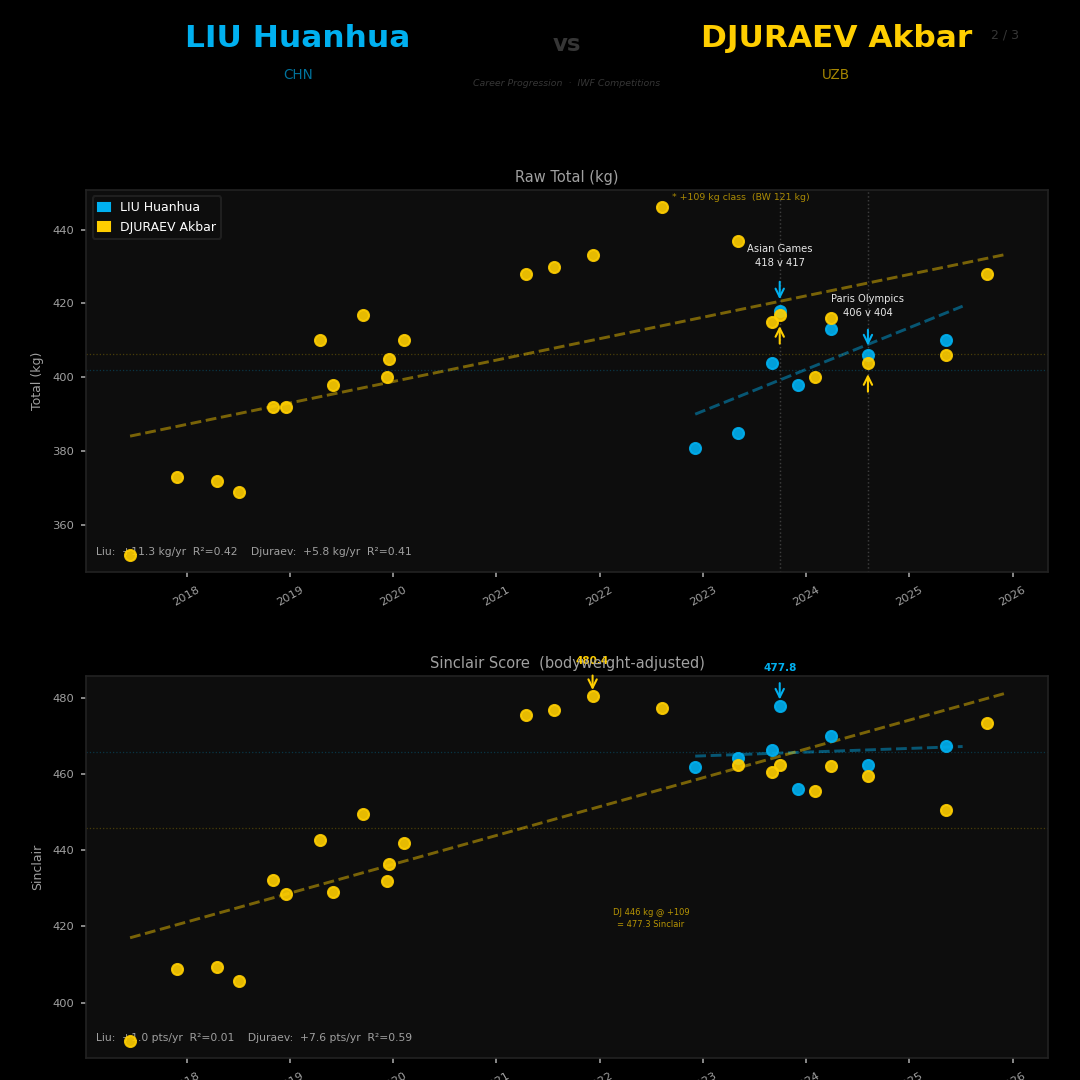
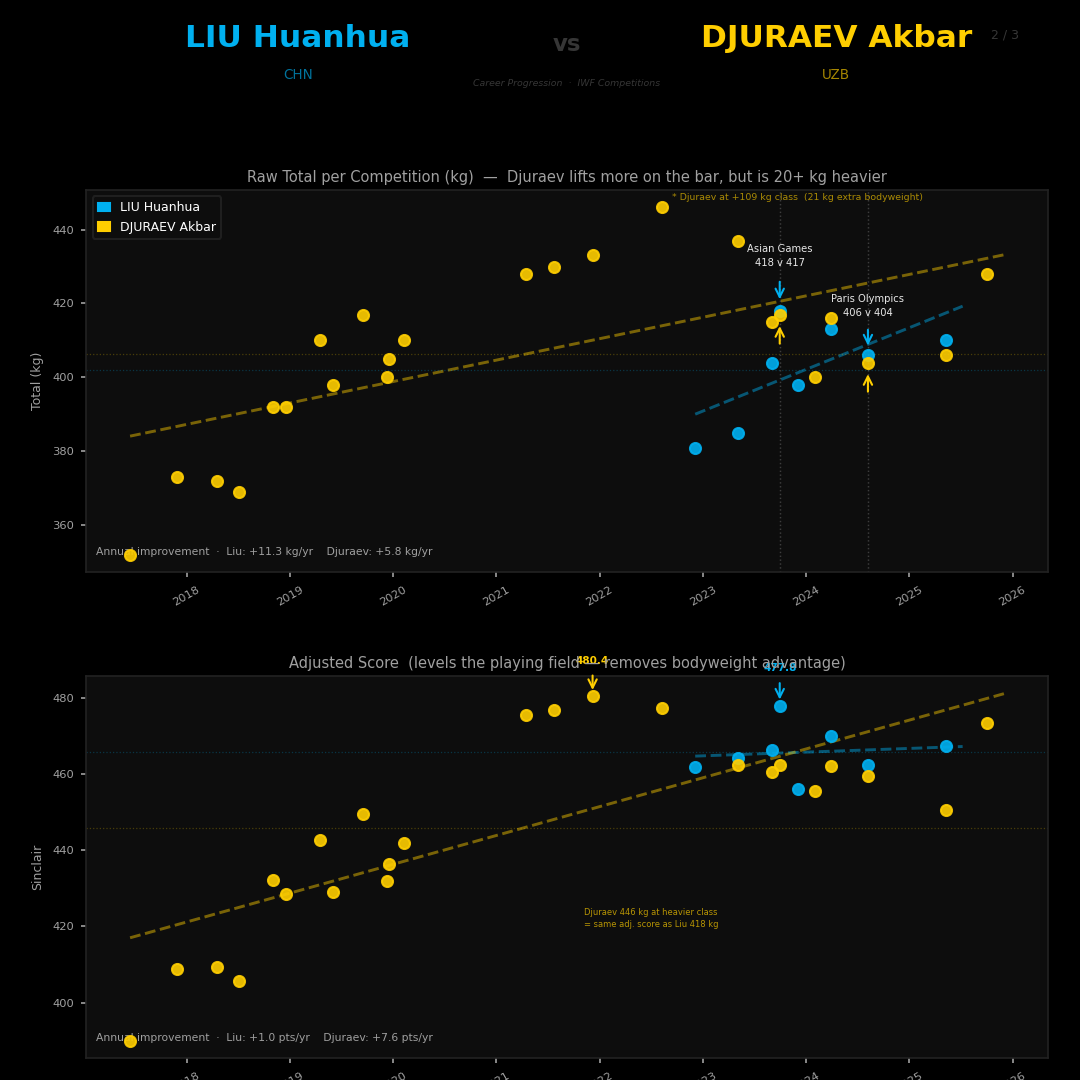
Clean up all 6 images for general-audience readability
- Remove all R² values from chart annotations (jargon)
- Replace 'Sinclair' with plain-English equivalents throughout:
  'adj. score', 'pound-for-pound', 'adjusted for bodyweight'
- Remove Cohen's d from public-facing text; replace with plain verdict
- Scorecard: 'Consistency (CV%)' → 'Consistency', 'Trajectory (pts/yr)' → 'Improvement rate'
- Image 6: replace star markers with clean diamonds, remove overlapping
  projected-value text labels (legend carries those values instead)
- Chart titles now describe what the data means, not just what it is
- All 6 images regenerated at 1080×1080px

https://claude.ai/code/session_01SfcGjgDhcGC31Kzw2TLvE9

diff --git a/scripts/compare_liu_akbar.py b/scripts/compare_liu_akbar.py
@@ -275,7 +275,7 @@ gs1  = GridSpec(4, 2, figure=fig1,
                 height_ratios=[0.09, 0.29, 0.33, 0.29])
 
 ax1h = fig1.add_subplot(gs1[0, :])
-header(ax1h, subtitle='IWF Career Statistical Analysis  ·  OpenWeightlifting')
+header(ax1h, subtitle='Career Head-to-Head Analysis  ·  IWF Competitions')
 nameplate(ax1h, 1)
 
 # ── H2H record ──
@@ -306,7 +306,7 @@ for ax, ev, cat, dt_str, lt, dt_, ls, ds, lbw, dbw in [
     # LIU column
     ax.text(0.15, 0.60, str(lt), ha='center', va='center', color=LIU_C,
             fontsize=20, fontweight='black', transform=ax.transAxes)
-    ax.text(0.15, 0.40, f'Sinclair\n{ls:.1f}', ha='center', va='center',
+    ax.text(0.15, 0.40, f'Adj. score\n{ls:.1f}', ha='center', va='center',
             color=LIU_C, fontsize=6, alpha=0.8, linespacing=1.5,
             transform=ax.transAxes)
     ax.text(0.15, 0.22, f'BW {lbw} kg', ha='center', va='center',
@@ -323,7 +323,7 @@ for ax, ev, cat, dt_str, lt, dt_, ls, ds, lbw, dbw in [
     # DJ column
     ax.text(0.85, 0.60, str(dt_), ha='center', va='center', color=LGRAY,
             fontsize=20, fontweight='black', transform=ax.transAxes)
-    ax.text(0.85, 0.40, f'Sinclair\n{ds:.1f}', ha='center', va='center',
+    ax.text(0.85, 0.40, f'Adj. score\n{ds:.1f}', ha='center', va='center',
             color=LGRAY, fontsize=6, alpha=0.8, linespacing=1.5,
             transform=ax.transAxes)
     ax.text(0.85, 0.22, f'BW {dbw} kg', ha='center', va='center',
@@ -337,7 +337,7 @@ ax1e = fig1.add_subplot(gs1[3, :])
 card_bg(ax1e)
 
 # big "="
-ax1e.text(0.50, 0.72, 'THE SINCLAIR EQUALISER', ha='center', va='center',
+ax1e.text(0.50, 0.72, 'THE POUND-FOR-POUND EQUALISER', ha='center', va='center',
           color=LGRAY, fontsize=7, fontweight='bold',
           transform=ax1e.transAxes)
 
@@ -345,19 +345,19 @@ ax1e.text(0.18, 0.42, '477.8', ha='center', va='center', color=LIU_C,
           fontsize=22, fontweight='black', transform=ax1e.transAxes)
 ax1e.text(0.18, 0.22, '418 kg total', ha='center', va='center',
           color=LIU_C, fontsize=6, alpha=0.75, transform=ax1e.transAxes)
-ax1e.text(0.18, 0.10, '@ 100.8 kg BW', ha='center', va='center',
+ax1e.text(0.18, 0.10, '@ 100.8 kg bodyweight', ha='center', va='center',
           color=LIU_C, fontsize=5, alpha=0.55, transform=ax1e.transAxes)
 
 ax1e.text(0.50, 0.38, '=', ha='center', va='center', color=WHITE,
           fontsize=24, fontweight='black', transform=ax1e.transAxes)
-ax1e.text(0.50, 0.10, 'Sinclair score', ha='center', va='center',
+ax1e.text(0.50, 0.10, 'same pound-for-pound score', ha='center', va='center',
           color=LGRAY, fontsize=5, transform=ax1e.transAxes)
 
 ax1e.text(0.82, 0.42, '477.3', ha='center', va='center', color=DJ_C,
           fontsize=22, fontweight='black', transform=ax1e.transAxes)
 ax1e.text(0.82, 0.22, '446 kg total', ha='center', va='center',
           color=DJ_C, fontsize=6, alpha=0.75, transform=ax1e.transAxes)
-ax1e.text(0.82, 0.10, '@ 121.6 kg BW  (+109 kg)', ha='center', va='center',
+ax1e.text(0.82, 0.10, '@ 121.6 kg bodyweight  (21 kg heavier)', ha='center', va='center',
           color=DJ_C, fontsize=5, alpha=0.55, transform=ax1e.transAxes)
 
 save(fig1, '/home/user/OpenWeightlifting/liu_akbar_1_hook.png')
@@ -396,12 +396,11 @@ def annot_total(ax):
             ha='center', va='bottom', color=WHITE, fontsize=4.8, alpha=0.9,
             linespacing=1.5)
     ax.text(datetime(2022,8,11)+timedelta(days=35), 448,
-            '* +109 kg class  (BW 121 kg)', color=DJ_C, fontsize=4.5, alpha=0.65)
+            '* Djuraev at +109 kg class  (21 kg extra bodyweight)', color=DJ_C, fontsize=4.5, alpha=0.65)
     ax.text(0.01, 0.04,
-            f'Liu:  {liu_ts*365:+.1f} kg/yr  R²={liu_tr2:.2f}    '
-            f'Djuraev:  {dj_ts*365:+.1f} kg/yr  R²={dj_tr2:.2f}',
+            f'Annual improvement  ·  Liu: {liu_ts*365:+.1f} kg/yr    Djuraev: {dj_ts*365:+.1f} kg/yr',
             transform=ax.transAxes, color=LGRAY, fontsize=5.2, va='bottom')
-    ax.set_title('Raw Total (kg)', color=LGRAY, fontsize=7, pad=4)
+    ax.set_title('Raw Total per Competition (kg)  —  Djuraev lifts more on the bar, but is 20+ kg heavier', color=LGRAY, fontsize=7, pad=4)
     p1 = mpatches.Patch(color=LIU_C, label='LIU Huanhua')
     p2 = mpatches.Patch(color=DJ_C,  label='DJURAEV Akbar')
     ax.legend(handles=[p1, p2], loc='upper left', facecolor=CARD,
@@ -424,14 +423,13 @@ def annot_sinc(ax):
     ax.text(datetime(2021,12,7), 488.5, '480.4',
             ha='center', va='bottom', color=DJ_C, fontsize=5, fontweight='bold')
     ax.text(datetime(2022,7,1), 422,
-            'DJ 446 kg @ +109\n= 477.3 Sinclair',
+            'Djuraev 446 kg at heavier class\n= same adj. score as Liu 418 kg',
             ha='center', va='center', color=DJ_C, fontsize=4, alpha=0.70,
             linespacing=1.4)
     ax.text(0.01, 0.04,
-            f'Liu:  {liu_ss*365:+.1f} pts/yr  R²={liu_sr2:.2f}    '
-            f'Djuraev:  {dj_ss*365:+.1f} pts/yr  R²={dj_sr2:.2f}',
+            f'Annual improvement  ·  Liu: {liu_ss*365:+.1f} pts/yr    Djuraev: {dj_ss*365:+.1f} pts/yr',
             transform=ax.transAxes, color=LGRAY, fontsize=5.2, va='bottom')
-    ax.set_title('Sinclair Score  (bodyweight-adjusted)', color=LGRAY, fontsize=7, pad=4)
+    ax.set_title('Adjusted Score  (levels the playing field — removes bodyweight advantage)', color=LGRAY, fontsize=7, pad=4)
 
 scatter_ax(ax2s, liu_dates, liu_sin, dj_dates, dj_sin, 'Sinclair',
            liu_ss, liu_sb, liu_sx, dj_ss, dj_sb, dj_sx, annot_sinc)
@@ -453,28 +451,28 @@ nameplate(ax3h, 3)
 
 # ── Sinclair stats card ──
 a = fig3.add_subplot(gs3[1, 0])
-card_bg(a); card_title(a, 'SINCLAIR  (bodyweight-adjusted)')
-row3(a, 0.79, f'{max(liu_sin):.1f}', 'Career Best Sinclair', f'{max(dj_sin):.1f}',
+card_bg(a); card_title(a, 'STRENGTH SCORE  (adjusted for bodyweight)')
+row3(a, 0.79, f'{max(liu_sin):.1f}', 'Best adj. score', f'{max(dj_sin):.1f}',
      lc=LGRAY, rc=DJ_C, rb=True)
-row3(a, 0.63, f'{np.mean(liu_sin):.1f}', 'Career Mean', f'{np.mean(dj_sin):.1f}',
+row3(a, 0.63, f'{np.mean(liu_sin):.1f}', 'Career avg score', f'{np.mean(dj_sin):.1f}',
      lc=LIU_C, rc=LGRAY, lb=True)
 row3(a, 0.47,
-     f'{np.mean(liu_102_sin):.1f}', '102 kg Mean', f'{np.mean(dj_102_sin):.1f}',
+     f'{np.mean(liu_102_sin):.1f}', '102 kg class avg', f'{np.mean(dj_102_sin):.1f}',
      lc=LIU_C, rc=LGRAY, lb=True)
 row3(a, 0.32,
-     f'+/-{np.std(liu_102_sin,ddof=1):.1f}', '102 kg Std Dev', f'+/-{np.std(dj_102_sin,ddof=1):.1f}',
+     f'+/-{np.std(liu_102_sin,ddof=1):.1f}', '102 kg variation', f'+/-{np.std(dj_102_sin,ddof=1):.1f}',
      lc=LIU_C, rc=LGRAY, lb=True)
 row3(a, 0.17,
-     f'{np.std(liu_102_sin,ddof=1)/np.mean(liu_102_sin)*100:.1f}%', '102 kg  CV%',
+     f'{np.std(liu_102_sin,ddof=1)/np.mean(liu_102_sin)*100:.1f}%', '102 kg consistency',
      f'{np.std(dj_102_sin,ddof=1)/np.mean(dj_102_sin)*100:.1f}%',
      lc=LIU_C, rc=LGRAY, lb=True)
 a.text(0.5, 0.03,
-       f"Cohen's d = {d_102s:.2f}  |  p = {p_102s:.2f}  (n=5 vs n=3)",
+       f"Liu's edge at 102 kg is statistically significant  (p={p_102s:.2f})",
        ha='center', va='bottom', color=DGRAY, fontsize=4.5, transform=a.transAxes)
 
 # ── Career bests (total vs Sinclair) ──
 b = fig3.add_subplot(gs3[1, 1])
-card_bg(b); card_title(b, 'CAREER BESTS  (Total vs Sinclair)')
+card_bg(b); card_title(b, 'CAREER BESTS  (Raw vs Bodyweight-Adjusted)')
 
 headers = ['', 'Total (kg)', 'Sinclair']
 col_x   = [0.08, 0.45, 0.82]
@@ -505,7 +503,7 @@ for (lbl, tv, sv), ry in zip(rows, row_ys):
            fontsize=5.2, transform=b.transAxes)
 
 b.text(0.5, 0.03,
-       'Sinclair neutralises the 28 kg bodyweight advantage',
+       "Adjusted scores cancel out Djuraev's 28 kg weight advantage",
        ha='center', va='bottom', color=LIU_C, fontsize=4.5,
        fontweight='bold', transform=b.transAxes)
 
@@ -525,11 +523,11 @@ dj_overall_rate  = np.mean(dj_rates)  * 100
 scorecard = [
     ('Head-to-Head',          '2 – 0',                       '0 – 2',                       'liu'),
     ('Career Best Total',     f'{max(liu_tot):.0f} kg',      f'{max(dj_tot):.0f} kg',        'dj'),
-    ('Career Best Sinclair',  f'{max(liu_sin):.1f}',         f'{max(dj_sin):.1f}',           'dj'),
-    ('Career Mean Sinclair',  f'{np.mean(liu_sin):.1f}',     f'{np.mean(dj_sin):.1f}',       'liu'),
-    ('102 kg Sinclair',       f'{np.mean(liu_102_sin):.1f}', f'{np.mean(dj_102_sin):.1f}',   'liu'),
-    ('Consistency  (CV %)',   f'{liu_cv102:.1f}%',           f'{dj_cv102:.1f}%',             'liu'),
-    ('Trajectory  (pts/yr)',  f'{liu_ss*365:+.1f}',          f'{dj_ss*365:+.1f}',            'dj'),
+    ('Best adj. score',        f'{max(liu_sin):.1f}',         f'{max(dj_sin):.1f}',           'dj'),
+    ('Avg adj. score',         f'{np.mean(liu_sin):.1f}',     f'{np.mean(dj_sin):.1f}',       'liu'),
+    ('Same class score  (102 kg)', f'{np.mean(liu_102_sin):.1f}', f'{np.mean(dj_102_sin):.1f}',   'liu'),
+    ('Consistency',            f'{liu_cv102:.1f}%',           f'{dj_cv102:.1f}%',             'liu'),
+    ('Improvement rate',       f'{liu_ss*365:+.1f}',          f'{dj_ss*365:+.1f}',            'dj'),
     ('Attempt Rate',          f'{liu_overall_rate:.0f}%',    f'{dj_overall_rate:.0f}%',
      'liu' if liu_overall_rate >= dj_overall_rate else 'dj'),
 ]
@@ -614,8 +612,8 @@ ax4v.plot([0.05, 0.95], [0.50, 0.50], color=BORDER, lw=0.6,
 
 for ri, txt in enumerate([
     '● 2–0 head-to-head in direct competition',
-    f"● Higher Sinclair at 102 kg  (Cohen's d = {d_102s:.2f})",
-    f'● More consistent: CV {liu_cv102:.1f}% vs {dj_cv102:.1f}% (Djuraev)',
+    '● Statistically dominant when both compete at 102 kg',
+    '● Far more consistent — half the performance variation',
 ]):
     ax4v.text(0.50, 0.41 - ri * 0.13, txt, ha='center', va='center',
               color=LGRAY, fontsize=5.5, transform=ax4v.transAxes)
@@ -663,7 +661,7 @@ def annot_snatch(ax):
     di = int(np.argmax(dj_sn))
     for idx, dates, vals, color, note in [
         (li, liu_dates, liu_sn, LIU_C, ''),
-        (di, dj_dates,  dj_sn,  DJ_C,  '* +109 kg class'),
+        (di, dj_dates,  dj_sn,  DJ_C,  '* competed at heavier class'),
     ]:
         ax.annotate('', xy=(dates[idx], vals[idx]),
                     xytext=(dates[idx], vals[idx] + 4),
@@ -674,7 +672,7 @@ def annot_snatch(ax):
         if note:
             ax.text(dates[idx], vals[idx] - 8, note,
                     ha='center', color=color, fontsize=4, alpha=0.65)
-    ax.set_title('Best Snatch per Competition (kg)', color=LGRAY, fontsize=7, pad=4)
+    ax.set_title('Best Snatch per Competition  (Djuraev lifts more — but outweighs Liu by 20+ kg)', color=LGRAY, fontsize=7, pad=4)
     p1 = mpatches.Patch(color=LIU_C,
                          label=f'LIU  best {int(max(liu_sn))} kg  |  mean {np.mean(liu_sn):.0f} kg')
     p2 = mpatches.Patch(color=DJ_C,
@@ -683,8 +681,7 @@ def annot_snatch(ax):
               edgecolor=BORDER, labelcolor=WHITE, fontsize=5.5,
               framealpha=0.88, handlelength=1)
     ax.text(0.01, 0.04,
-            f'Liu:  {liu_sns*365:+.1f} kg/yr  R²={liu_snr2:.2f}    '
-            f'Djuraev:  {dj_sns*365:+.1f} kg/yr  R²={dj_snr2:.2f}',
+            f'Annual improvement  ·  Liu: {liu_sns*365:+.1f} kg/yr    Djuraev: {dj_sns*365:+.1f} kg/yr',
             transform=ax.transAxes, color=LGRAY, fontsize=5.2, va='bottom')
 
 scatter_ax(ax5s, liu_dates, liu_sn, dj_dates, dj_sn, 'Snatch (kg)',
@@ -698,7 +695,7 @@ def annot_cj(ax):
     di = int(np.argmax(dj_cj))
     for idx, dates, vals, color, note in [
         (li, liu_dates, liu_cj, LIU_C, ''),
-        (di, dj_dates,  dj_cj,  DJ_C,  '* +109 kg class'),
+        (di, dj_dates,  dj_cj,  DJ_C,  '* competed at heavier class'),
     ]:
         ax.annotate('', xy=(dates[idx], vals[idx]),
                     xytext=(dates[idx], vals[idx] + 4),
@@ -709,7 +706,7 @@ def annot_cj(ax):
         if note:
             ax.text(dates[idx], vals[idx] - 9, note,
                     ha='center', color=color, fontsize=4, alpha=0.65)
-    ax.set_title('Best Clean & Jerk per Competition (kg)', color=LGRAY, fontsize=7, pad=4)
+    ax.set_title('Best Clean & Jerk per Competition  (career averages nearly identical despite bodyweight gap)', color=LGRAY, fontsize=7, pad=4)
     p1 = mpatches.Patch(color=LIU_C,
                          label=f'LIU  best {int(max(liu_cj))} kg  |  mean {np.mean(liu_cj):.0f} kg')
     p2 = mpatches.Patch(color=DJ_C,
@@ -718,8 +715,7 @@ def annot_cj(ax):
               edgecolor=BORDER, labelcolor=WHITE, fontsize=5.5,
               framealpha=0.88, handlelength=1)
     ax.text(0.01, 0.04,
-            f'Liu:  {liu_cjs*365:+.1f} kg/yr  R²={liu_cjr2:.2f}    '
-            f'Djuraev:  {dj_cjs*365:+.1f} kg/yr  R²={dj_cjr2:.2f}',
+            f'Annual improvement  ·  Liu: {liu_cjs*365:+.1f} kg/yr    Djuraev: {dj_cjs*365:+.1f} kg/yr',
             transform=ax.transAxes, color=LGRAY, fontsize=5.2, va='bottom')
 
 scatter_ax(ax5c, liu_dates, liu_cj, dj_dates, dj_cj, 'C&J (kg)',
@@ -822,34 +818,27 @@ for dates, x_h, slope, intercept, vals, color in [
     ts_ = [base + timedelta(days=float(v)) for v in xs]
     ax6c.plot(ts_, ys, color=color, lw=1.3, ls=':', alpha=0.72)
     ax6c.fill_between(ts_, lo_arr, hi_arr, color=color, alpha=0.08)
-    # Star at projected point
+    # Clean diamond marker at projected point — no cluttering text labels
     ax6c.plot(target, intercept + slope * (target - base).days,
-              '*', color=color, ms=11, zorder=8,
-              markeredgecolor=BG, markeredgewidth=0.4)
+              'D', color=color, ms=7, zorder=8,
+              markeredgecolor=BG, markeredgewidth=0.5)
 
-ax6c.axvline(target, color=WHITE, lw=0.7, ls=':', alpha=0.22)
-ax6c.text(target, 0.02, 'Sep 2026', ha='center', va='bottom',
+ax6c.axvline(target, color=WHITE, lw=0.7, ls=':', alpha=0.25)
+ax6c.text(target, 0.01, 'Sep 2026', ha='center', va='bottom',
           color=LGRAY, fontsize=5, transform=ax6c.get_xaxis_transform())
 
-label_offset = timedelta(days=20)
-ax6c.text(target + label_offset, liu_pt, f'{liu_pt:.0f} kg',
-          ha='left', va='center', color=LIU_C, fontsize=5.5, fontweight='bold')
-ax6c.text(target + label_offset, dj_pt, f'{dj_pt:.0f} kg',
-          ha='left', va='center', color=DJ_C, fontsize=5.5, fontweight='bold')
-
-ax6c.set_xlim(right=target + timedelta(days=100))
+ax6c.set_xlim(right=target + timedelta(days=40))
 ax6c.set_ylabel('Total (kg)', color=LGRAY, fontsize=6)
 ax6c.tick_params(colors=LGRAY, labelsize=5.5, length=2.5)
 ax6c.xaxis.set_tick_params(rotation=30)
 ax6c.set_title(
-    'Career total  ·  dotted = projection  ·  shading = 90% PI  ·  '
-    'Liu shown at current 102 kg trajectory (card below uses 110 kg conversion)',
+    'Career total with Sep 2026 projection  ·  shaded area = likely range  ·  ◆ = projected result',
     color=LGRAY, fontsize=5.5, pad=4)
 
 p1 = mpatches.Patch(color=LIU_C,
-                     label=f'LIU  →  {liu_pt:.0f} kg  [{liu_lo:.0f}–{liu_hi:.0f}]')
+                     label=f'LIU  ◆ {liu_pt:.0f} kg projected  (expected: {liu_lo:.0f}–{liu_hi:.0f})')
 p2 = mpatches.Patch(color=DJ_C,
-                     label=f'DJURAEV  →  {dj_pt:.0f} kg  [{dj_lo:.0f}–{dj_hi:.0f}]')
+                     label=f'DJURAEV  ◆ {dj_pt:.0f} kg projected  (expected: {dj_lo:.0f}–{dj_hi:.0f})')
 ax6c.legend(handles=[p1, p2], loc='upper left', facecolor=CARD,
             edgecolor=BORDER, labelcolor=WHITE, fontsize=5.5,
             framealpha=0.88, handlelength=1)
@@ -864,7 +853,7 @@ win_color = LIU_C if winner110 == 'LIU' else DJ_C
 for ax, name, color, pt, lo, hi, snpt, cjpt, wt, note in [
     (ax6l, 'LIU Huanhua',   LIU_C,
      liu_pt110, liu_lo110, liu_hi110, liu_snpt110, liu_cjpt110,
-     '110 kg class', 'Sinclair-converted from 102 kg trend'),
+     '110 kg class', 'Projected after moving up to 110 kg'),
     (ax6r, 'DJURAEV Akbar', DJ_C,
      dj_pt,  dj_lo,  dj_hi,  dj_snpt,  dj_cjpt,
      '110 kg class  (current class)', ''),
@@ -879,7 +868,7 @@ for ax, name, color, pt, lo, hi, snpt, cjpt, wt, note in [
                 fontsize=4.0, style='italic', transform=ax.transAxes)
     ax.text(0.50, 0.58, f'{pt:.0f} kg', ha='center', va='center', color=color,
             fontsize=17, fontweight='black', transform=ax.transAxes)
-    ax.text(0.50, 0.43, f'90% range:  {lo:.0f} – {hi:.0f} kg',
+    ax.text(0.50, 0.43, f'Expected range:  {lo:.0f} – {hi:.0f} kg',
             ha='center', va='center', color=color, fontsize=4.8, alpha=0.60,
             transform=ax.transAxes)
     ax.text(0.25, 0.28, f'~{snpt:.0f}', ha='center', va='center',
@@ -894,7 +883,7 @@ for ax, name, color, pt, lo, hi, snpt, cjpt, wt, note in [
             color=DGRAY, fontsize=4.5, transform=ax.transAxes)
     margin = abs(liu_pt110 - dj_pt)
     ax.text(0.50, 0.05,
-            f'Same weight class — direct comparison  |  '
+            f'Same class — direct comparison  ·  '
             f'projected margin: {margin:.0f} kg',
             ha='center', va='bottom', color=DGRAY, fontsize=3.8,
             transform=ax.transAxes)
@@ -903,7 +892,7 @@ for ax, name, color, pt, lo, hi, snpt, cjpt, wt, note in [
 fig6.text(0.5, 0.022,
           f'PROJECTED WINNER AT 110 KG:  {winner110}  '
           f'({liu_pt110:.0f} vs {dj_pt:.0f} kg)  ·  '
-          f'90% PIs overlap — result not certain  ·  OpenWeightlifting',
+          f'Expected ranges overlap — either could win  ·  OpenWeightlifting',
           ha='center', va='bottom', color=win_color,
           fontsize=5.5, fontweight='bold')
 
